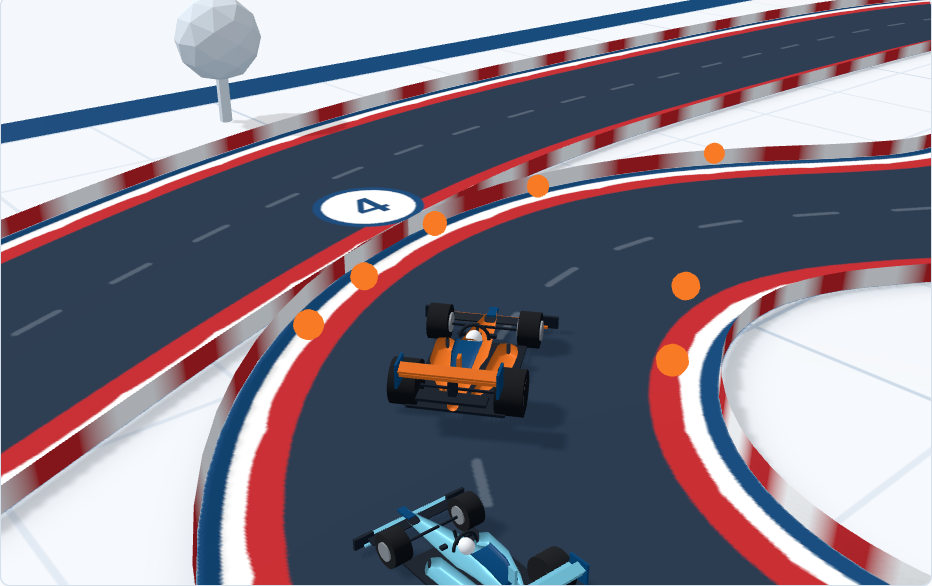
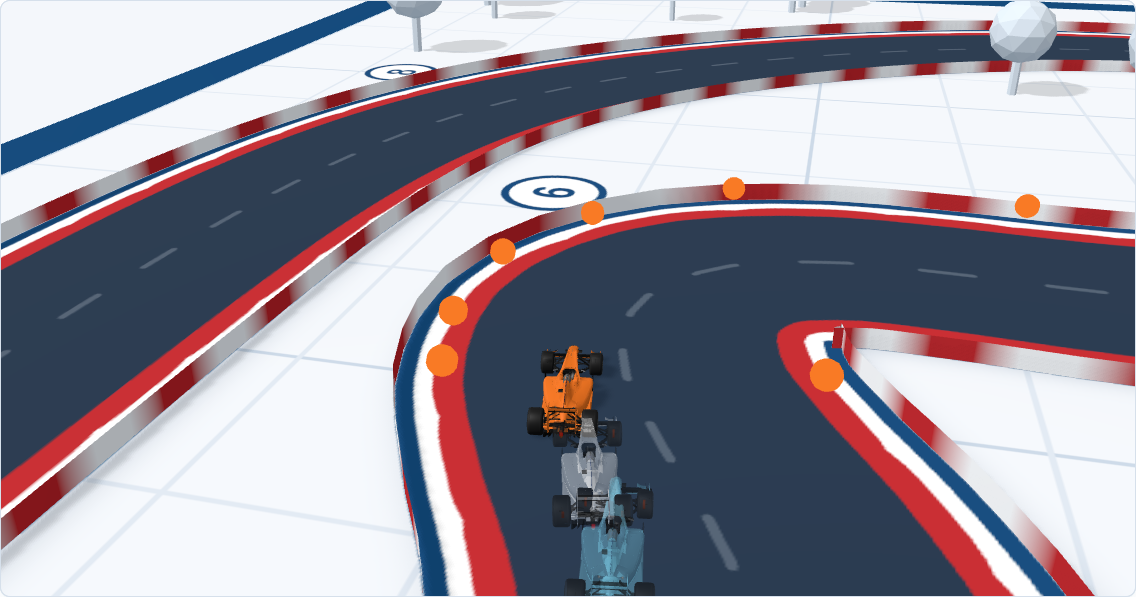
docs: README com grid de largada, resultado e imagens novas
- Grid de largada esperando "Iniciar corrida" e tela de resultado, com imagens
- Remove o cartão do piloto (saiu da transmissão)
- Imagens principal e câmera no líder com o nome e o carro novos
- package-lock sincronizado: npm install não suja mais a árvore
- check-race avisa quando o campeão ainda não completa volta, em vez de quebrar

diff --git a/scripts/check-race.ts b/scripts/check-race.ts
@@ -11,6 +11,7 @@ const sim = new Simulation(7, {}, circuitCenter(circuit), circuit.name);
 while (sim.history.length < gens) { while (!sim.finished) sim.step(); sim.evolve(); }
 const champ = bestChampion(sim)!;
 console.log(`${circuit.name}: campeão da geração ${champ.gen}, ${champ.laps.toFixed(2)} voltas em 30 s sem sorte`);
+if (champ.laps < 1) { console.error('O campeão ainda não completa uma volta: aumente as gerações (ex.: 20).'); process.exit(1); }
 
 function run(n: number, start: StartMode, laps: number, races: number) {
   const wins = new Array(n).fill(0), gridWins = new Array(n).fill(0);

diff --git a/README.md b/README.md
@@ -34,15 +34,22 @@ Na primeira geração quase todos batem. Entre a 3ª e a 6ª alguém completa a 
 
 ### Corrida entre alunos (tecla R)
 
-Uma "roleta" com carros: de 1 a 30 participantes, cada um com nome e cor próprios, **todos com o mesmo cérebro** (o melhor treinado até agora). Quem ganha é a sorte: o motor de cada carro rende entre 92% e 100%, oscilando devagar ao longo da prova. Nas 240 corridas do teste de justiça, cada participante venceu perto de 1 em N vezes.
+Uma "roleta" com carros: de 1 a 30 participantes, cada um com nome e cor próprios (Enter pula para o próximo nome; colar uma lista preenche vários de uma vez), **todos com o mesmo cérebro** (o melhor treinado até agora). Quem ganha é a sorte: o motor de cada carro rende entre 92% e 100%, oscilando devagar ao longo da prova. Nas 240 corridas do teste de justiça, cada participante venceu perto de 1 em N vezes.
 
-- **Grid com classificação:** uma volta lançada decide o grid, depois vêm as 5 luzes vermelhas.
+- **Grid com classificação:** uma volta lançada decide o grid. A tela **Grid de largada** mostra as posições e as diferenças para a pole e espera você clicar em **Iniciar corrida**; aí vêm as 5 luzes vermelhas.
 - **Largada única:** todos saem juntos do mesmo ponto.
 - **Cérebro:** o padrão é o melhor treinado até agora. Na folha dá para **guardar cérebros com nome** (ficam no computador) e escolher um deles para correr; cada um mostra quantas voltas faz na pista atual.
 - **3, 5, 10 ou qualquer número de voltas** (1 a 99). Quem sai da pista volta parado, com 1 s de penalidade. Os carros não batem entre si.
-- **Tela cheia da corrida:** ao clicar em Largar, a corrida já abre em tela cheia e em 1×. T ou Esc saem e voltam. É uma transmissão estilo F1, com torre de posições (diferença para o líder alternando com intervalo), posições ganhas e perdidas desde a largada, relógio da prova, volta mais rápida em roxo, cartão do piloto em destaque (última volta, melhor volta, posição de largada, saídas de pista) e faixas de volta. Clique num nome da torre para a câmera seguir o carro.
+- **Tela cheia da corrida:** ao clicar em Largar, a corrida já abre em tela cheia e em 1×. T ou Esc saem e voltam. É uma transmissão estilo F1, com torre de posições (diferença para o líder alternando com intervalo), posições ganhas e perdidas desde a largada, relógio da prova, volta mais rápida em roxo e faixas de volta. Clique num nome da torre para a câmera seguir o carro.
 - **Câmeras:** a corrida começa seguindo quem está em P1. Quando o líder muda (e se mantém à frente por 0,8 s), a câmera desliza suave até o novo carro, sem corte. Também dá para ver do helicóptero, bem alto, circulando o líder.
-- **Bandeirada:** pódio com o prêmio ("Ana ganhou um bombom!"), **Correr de novo** com sorte nova e os mesmos nomes, ou **Nova corrida**.
+- **Bandeirada:** resultado final com pódio e prêmio ("Ana venceu! Ganhou um bombom."), todos os outros com a diferença para o vencedor, **Correr de novo** com sorte nova e os mesmos nomes, ou **Nova corrida**.
+
+<table>
+<tr>
+<td width="50%"><img src="docs/img/corrida-grid.png" alt="Grid de largada: posições em duas colunas, pole em destaque e o botão Iniciar corrida"><br><sub><b>Grid de largada:</b> a corrida espera o apresentador clicar em Iniciar corrida.</sub></td>
+<td width="50%"><img src="docs/img/corrida-resultado.png" alt="Resultado final: pódio com os três primeiros e a classificação completa"><br><sub><b>Resultado final:</b> pódio, prêmio e a diferença de cada um para o vencedor.</sub></td>
+</tr>
+</table>
 
 ### Explicar a evolução (tecla E)
 
@@ -63,7 +70,7 @@ npm test         # testes do motor, incluindo o teste de aprendizado (~20 s)
 npm run build    # dist/index.html: um arquivo só, abre com duplo clique, sem internet
 ```
 
-O build embute JavaScript, CSS, fontes e o logo num único `index.html`. Dá para levar só esse arquivo num pendrive.
+O build embute JavaScript, CSS, fontes, o logo e o modelo 3D do carro num único `index.html` (~2 MB). Dá para levar só esse arquivo num pendrive.
 
 Para repetir uma execução boa, abra `index.html?seed=NÚMERO&pista=ID` (por exemplo `?seed=3&pista=br-1940`). A seed atual aparece no **Painel** (tecla P).
 
